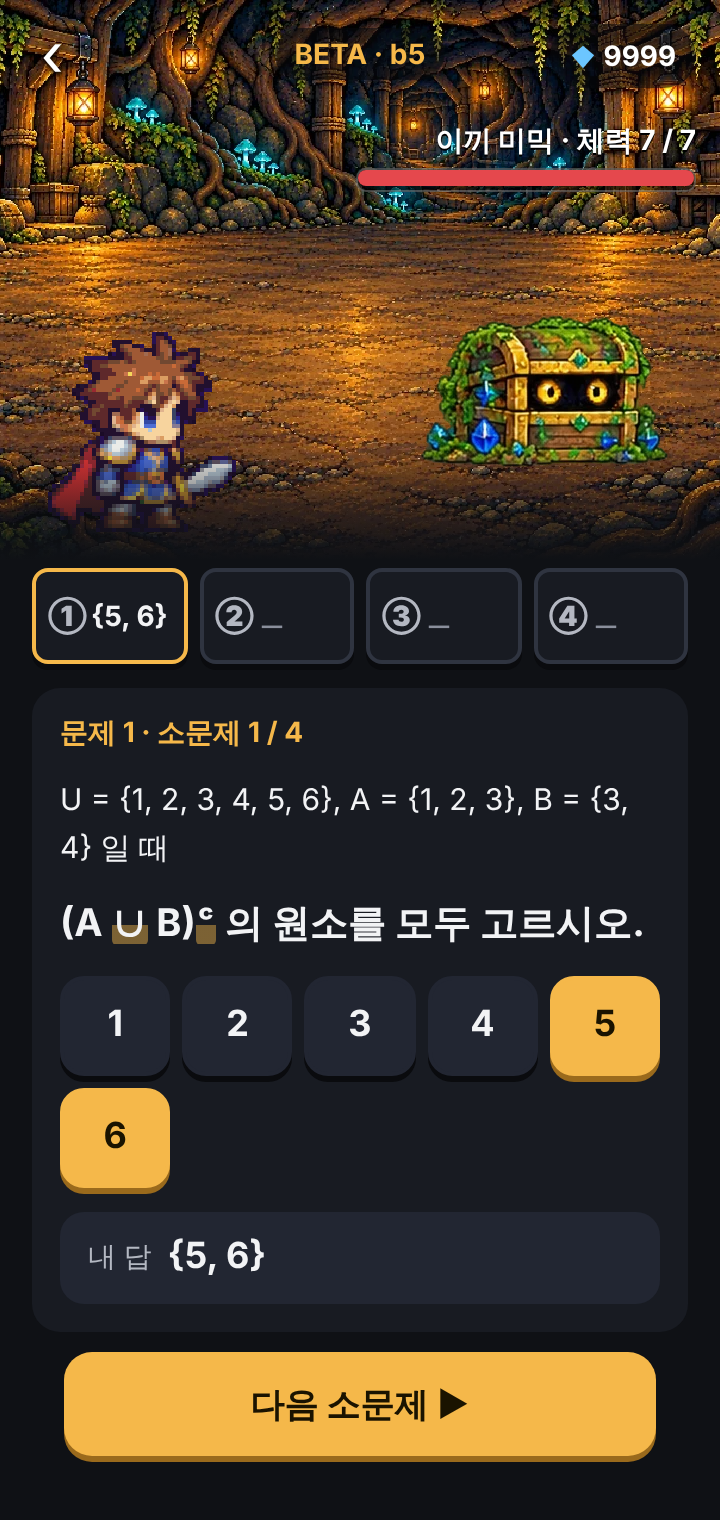
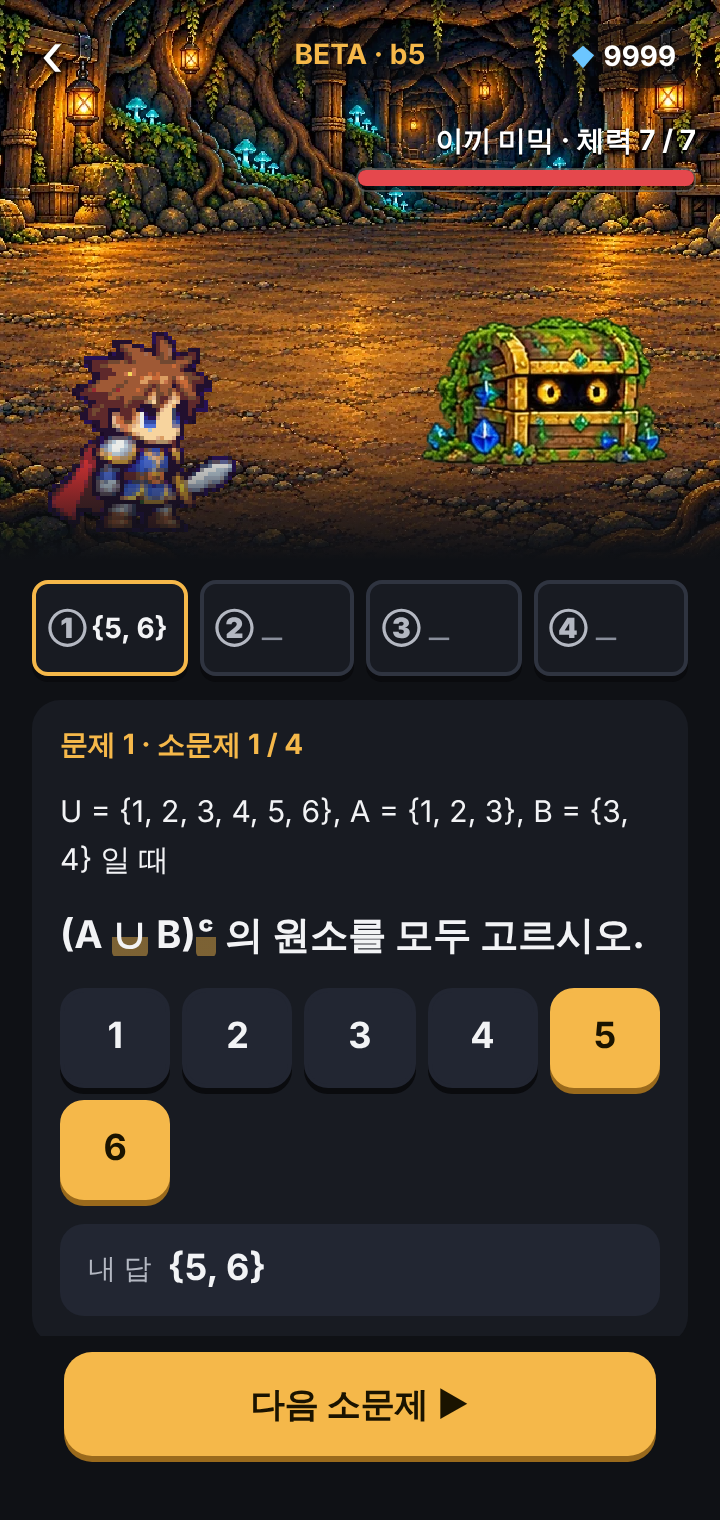
답안 줄 칸 ✔ ✘ 배지 되살림 (#110 · 5절 8번): 오른쪽 위 모서리 지름 16 · 흰 기호 · 테두리에 반쯤 걸침 · 답은 가리지 않음
Claude-Session: https://claude.ai/code/session_014JJv1kfRHM8SAjsHDCgfJ5

diff --git a/src/ui/q/AnswerRow.svelte b/src/ui/q/AnswerRow.svelte
@@ -10,17 +10,21 @@
   {#each cells as c, i (i)}
     <button type="button" class="cell {c.state}" class:now={i === cur} disabled={!onpick} aria-current={i === cur ? 'step' : undefined}
       aria-label="{label(i)} {c.state === 'ok' ? '맞음 ' : c.state === 'bad' || c.state === 'oldbad' ? '틀림 ' : ''}{c.text ?? '빈 칸'}" onclick={() => onpick?.(i)}>
-      <b>{label(i)}</b><span class="tx">{c.text ?? '＿'}</span>
+      <b>{label(i)}</b><span class="tx">{c.text ?? '＿'}</span>{#if c.state === 'ok'}<i class="badge ok" aria-hidden="true">✔</i>{:else if c.state === 'bad' || c.state === 'oldbad'}<i class="badge bad" aria-hidden="true">✘</i>{/if}
     </button>
   {/each}
 </div>
 
 <style>
-  .row { display: grid; grid-template-columns: repeat(auto-fit, minmax(68px, 1fr)); gap: 6px; border-radius: var(--r); transition: box-shadow var(--t); }
+  .row { padding-top: 6px; display: grid; grid-template-columns: repeat(auto-fit, minmax(68px, 1fr)); gap: 6px; border-radius: var(--r); transition: box-shadow var(--t); }
   .row.flash { animation: flash 0.6s ease-out 1; }
   @keyframes flash { 0% { box-shadow: 0 0 0 0 rgba(245, 184, 74, 0); } 40% { box-shadow: 0 0 0 4px var(--accent); } 100% { box-shadow: 0 0 0 0 rgba(245, 184, 74, 0); } }
-  .cell { min-height: var(--tap); min-width: 0; display: flex; align-items: center; gap: 2px; padding: 0 6px; border-radius: var(--r-sm); border: 2px solid var(--line); background: var(--surface); color: var(--text); font: 700 var(--fs-small) var(--font); text-align: left; box-shadow: 0 3px 0 var(--press-sh); }
+  .cell { position: relative; overflow: visible; min-height: var(--tap); min-width: 0; display: flex; align-items: center; gap: 2px; padding: 0 6px; border-radius: var(--r-sm); border: 2px solid var(--line); background: var(--surface); color: var(--text); font: 700 var(--fs-small) var(--font); text-align: left; box-shadow: 0 3px 0 var(--press-sh); }
   .cell:disabled { opacity: 1; box-shadow: none; }
+  /* ✔ ✘ 배지 (#110 · 5절 8번 색만으로 뜻 전하지 않음): 오른쪽 위 모서리 · 지름 16 · 흰 기호 · 테두리에 반쯤 걸침 */
+  .badge { position: absolute; top: -8px; right: -6px; width: 16px; height: 16px; border-radius: 8px; display: grid; place-items: center; font-style: normal; font-size: 11px; font-weight: 700; line-height: 1; color: #fff; box-shadow: 0 0 0 2px var(--bg); }
+  .badge.ok { background: var(--ok); }
+  .badge.bad { background: var(--bad); }
   .cell b { color: var(--text-2); flex: none; }
   .tx { min-width: 0; overflow: hidden; text-overflow: ellipsis; white-space: nowrap; }
   .cell.empty .tx { color: var(--text-3); }
